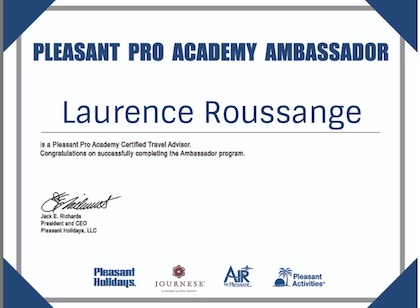
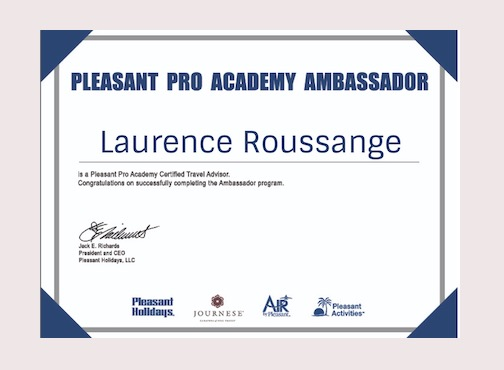
updating certificates

diff --git a/_site/about.html b/_site/about.html
@@ -217,7 +217,7 @@ src="https://www.facebook.com/tr?id=999318634367771&ev=PageView&noscript=1"
       <!-- Latest Projects-->
       <section class="section section-sm section-fluid bg-default">
         <div class="container">
-          <h3>Destinations</h3>
+          <h3>Certifications</h3>
         </div>
         <!-- Owl Carousel-->
         <div class="owl-carousel owl-classic owl-timeline" data-items="1" data-md-items="2" data-lg-items="3" data-xl-items="4" data-margin="30" data-autoplay="false" data-nav="true" data-dots="true">
@@ -226,11 +226,10 @@ src="https://www.facebook.com/tr?id=999318634367771&ev=PageView&noscript=1"
             <article class="thumbnail thumbnail-mary">
               <div class="thumbnail-mary-figure"><img src="images/gallery-image-11-420x308.jpg" alt="" width="420" height="308"/>
               </div>
-              <div class="thumbnail-mary-caption"><a class="icon fl-bigmug-line-zoom60" href="images/gallery-image-11-1200x800-original.jpg" data-lightgallery="item"><img src="images/gallery-image-11-420x308.jpg" alt="" width="420" height="308"/></a>
-              </div>
+              
             </article>
             <div class="thumbnail-mary-description">
-              <h5 class="thumbnail-mary-project"><a href="#">France</a></h5><span class="thumbnail-mary-decor"></span>
+              <h5 class="thumbnail-mary-project">Pleasant Pro</h5><span class="thumbnail-mary-decor"></span>
               <h5 class="thumbnail-mary-time">
               </h5>
             </div>
@@ -240,11 +239,10 @@ src="https://www.facebook.com/tr?id=999318634367771&ev=PageView&noscript=1"
             <article class="thumbnail thumbnail-mary">
               <div class="thumbnail-mary-figure"><img src="images/gallery-image-12-420x308.jpg" alt="" width="420" height="308"/>
               </div>
-              <div class="thumbnail-mary-caption"><a class="icon fl-bigmug-line-zoom60" href="images/gallery-image-12-1200x800-original.jpg" data-lightgallery="item"><img src="images/gallery-image-12-420x308.jpg" alt="" width="420" height="308"/></a>
-              </div>
+              
             </article>
             <div class="thumbnail-mary-description">
-              <h5 class="thumbnail-mary-project"><a href="#">Italy</a></h5><span class="thumbnail-mary-decor"></span>
+              <h5 class="thumbnail-mary-project">Islands of The Bahamas</h5><span class="thumbnail-mary-decor"></span>
               <h5 class="thumbnail-mary-time">
               </h5>
             </div>
@@ -254,11 +252,10 @@ src="https://www.facebook.com/tr?id=999318634367771&ev=PageView&noscript=1"
             <article class="thumbnail thumbnail-mary">
               <div class="thumbnail-mary-figure"><img src="images/gallery-image-13-420x308.jpg" alt="" width="420" height="308"/>
               </div>
-              <div class="thumbnail-mary-caption"><a class="icon fl-bigmug-line-zoom60" href="images/gallery-image-13-1200x800-original.jpg" data-lightgallery="item"><img src="images/gallery-image-13-420x308.jpg" alt="" width="420" height="308"/></a>
-              </div>
+              
             </article>
             <div class="thumbnail-mary-description">
-              <h5 class="thumbnail-mary-project"><a href="#">Egypt</a></h5><span class="thumbnail-mary-decor"></span>
+              <h5 class="thumbnail-mary-project">Celebrity Cruises</h5><span class="thumbnail-mary-decor"></span>
               <h5 class="thumbnail-mary-time">
               </h5>
             </div>
@@ -268,11 +265,10 @@ src="https://www.facebook.com/tr?id=999318634367771&ev=PageView&noscript=1"
             <article class="thumbnail thumbnail-mary">
               <div class="thumbnail-mary-figure"><img src="images/gallery-image-14-420x308.jpg" alt="" width="420" height="308"/>
               </div>
-              <div class="thumbnail-mary-caption"><a class="icon fl-bigmug-line-zoom60" href="images/gallery-image-14-1200x800-original.jpg" data-lightgallery="item"><img src="images/gallery-image-14-420x308.jpg" alt="" width="420" height="308"/></a>
-              </div>
+              
             </article>
             <div class="thumbnail-mary-description">
-              <h5 class="thumbnail-mary-project"><a href="#">Dubai</a></h5><span class="thumbnail-mary-decor"></span>
+              <h5 class="thumbnail-mary-project">Centrav Air</h5><span class="thumbnail-mary-decor"></span>
               <h5 class="thumbnail-mary-time">
               </h5>
             </div>
@@ -282,11 +278,10 @@ src="https://www.facebook.com/tr?id=999318634367771&ev=PageView&noscript=1"
             <article class="thumbnail thumbnail-mary">
               <div class="thumbnail-mary-figure"><img src="images/gallery-image-15-420x308.jpg" alt="" width="420" height="308"/>
               </div>
-              <div class="thumbnail-mary-caption"><a class="icon fl-bigmug-line-zoom60" href="images/gallery-image-15-1200x800-original.jpg" data-lightgallery="item"><img src="images/gallery-image-15-420x308.jpg" alt="" width="420" height="308"/></a>
-              </div>
+              
             </article>
             <div class="thumbnail-mary-description">
-              <h5 class="thumbnail-mary-project"><a href="#">Spain</a></h5><span class="thumbnail-mary-decor"></span>
+              <h5 class="thumbnail-mary-project">Club Med</h5><span class="thumbnail-mary-decor"></span>
               <h5 class="thumbnail-mary-time">
               </h5>
             </div>
@@ -294,13 +289,12 @@ src="https://www.facebook.com/tr?id=999318634367771&ev=PageView&noscript=1"
           <div class="owl-item">
           <!-- Thumbnail Classic-->
             <article class="thumbnail thumbnail-mary">
-              <div class="thumbnail-mary-figure"><img src="images/gallery-image-15-420x308.jpg" alt="" width="420" height="308"/>
+              <div class="thumbnail-mary-figure"><img src="images/gallery-image-17-420x308.jpg" alt="" width="420" height="308"/>
               </div>
-              <div class="thumbnail-mary-caption"><a class="icon fl-bigmug-line-zoom60" href="images/gallery-image-15-1200x800-original.jpg" data-lightgallery="item"><img src="images/gallery-image-15-420x308.jpg" alt="" width="420" height="308"/></a>
-              </div>
+              
             </article>
             <div class="thumbnail-mary-description">
-              <h5 class="thumbnail-mary-project"><a href="#">Spain</a></h5><span class="thumbnail-mary-decor"></span>
+              <h5 class="thumbnail-mary-project">Princess Cruises</h5><span class="thumbnail-mary-decor"></span>
               <h5 class="thumbnail-mary-time">
               </h5>
             </div>
@@ -308,13 +302,38 @@ src="https://www.facebook.com/tr?id=999318634367771&ev=PageView&noscript=1"
           <div class="owl-item">
           <!-- Thumbnail Classic-->
             <article class="thumbnail thumbnail-mary">
-              <div class="thumbnail-mary-figure"><img src="images/gallery-image-15-420x308.jpg" alt="" width="420" height="308"/>
+              <div class="thumbnail-mary-figure"><img src="images/gallery-image-18-420x308.jpg" alt="" width="420" height="308"/>
               </div>
-              <div class="thumbnail-mary-caption"><a class="icon fl-bigmug-line-zoom60" href="images/gallery-image-15-1200x800-original.jpg" data-lightgallery="item"><img src="images/gallery-image-15-420x308.jpg" alt="" width="420" height="308"/></a>
-              </div>
+              
             </article>
             <div class="thumbnail-mary-description">
-              <h5 class="thumbnail-mary-project"><a href="#">Spain</a></h5><span class="thumbnail-mary-decor"></span>
+              <h5 class="thumbnail-mary-project">Royal Caribbean Cruises</h5><span class="thumbnail-mary-decor"></span>
+              <h5 class="thumbnail-mary-time">
+              </h5>
+            </div>
+          </div>
+          <div class="owl-item">
+          <!-- Thumbnail Classic-->
+            <article class="thumbnail thumbnail-mary">
+              <div class="thumbnail-mary-figure"><img src="images/gallery-image-19-420x308.jpg" alt="" width="420" height="308"/>
+              </div>
+              
+            </article>
+            <div class="thumbnail-mary-description">
+              <h5 class="thumbnail-mary-project">Viking Cruises</h5><span class="thumbnail-mary-decor"></span>
+              <h5 class="thumbnail-mary-time">
+              </h5>
+            </div>
+          </div>
+          <div class="owl-item">
+          <!-- Thumbnail Classic-->
+            <article class="thumbnail thumbnail-mary">
+              <div class="thumbnail-mary-figure"><img src="images/gallery-image-20-420x308.jpg" alt="" width="420" height="308"/>
+              </div>
+              
+            </article>
+            <div class="thumbnail-mary-description">
+              <h5 class="thumbnail-mary-project">Windstar Cruises</h5><span class="thumbnail-mary-decor"></span>
               <h5 class="thumbnail-mary-time">
               </h5>
             </div>
@@ -324,11 +343,10 @@ src="https://www.facebook.com/tr?id=999318634367771&ev=PageView&noscript=1"
             <article class="thumbnail thumbnail-mary">
               <div class="thumbnail-mary-figure"><img src="images/gallery-image-16-420x308.jpg" alt="" width="420" height="308"/>
               </div>
-              <div class="thumbnail-mary-caption"><a class="icon fl-bigmug-line-zoom60" href="images/gallery-image-16-1200x800-original.jpg" data-lightgallery="item"><img src="images/gallery-image-16-420x308.jpg" alt="" width="420" height="308"/></a>
-              </div>
+              
             </article>
             <div class="thumbnail-mary-description">
-              <h5 class="thumbnail-mary-project"><a href="#">Africa</a></h5><span class="thumbnail-mary-decor"></span>
+              <h5 class="thumbnail-mary-project">Travel Academy</h5><span class="thumbnail-mary-decor"></span>
               <h5 class="thumbnail-mary-time">
               </h5>
             </div>

diff --git a/about.html b/about.html
@@ -217,7 +217,7 @@ src="https://www.facebook.com/tr?id=999318634367771&ev=PageView&noscript=1"
       <!-- Latest Projects-->
       <section class="section section-sm section-fluid bg-default">
         <div class="container">
-          <h3>Destinations</h3>
+          <h3>Certifications</h3>
         </div>
         <!-- Owl Carousel-->
         <div class="owl-carousel owl-classic owl-timeline" data-items="1" data-md-items="2" data-lg-items="3" data-xl-items="4" data-margin="30" data-autoplay="false" data-nav="true" data-dots="true">
@@ -226,11 +226,10 @@ src="https://www.facebook.com/tr?id=999318634367771&ev=PageView&noscript=1"
             <article class="thumbnail thumbnail-mary">
               <div class="thumbnail-mary-figure"><img src="images/gallery-image-11-420x308.jpg" alt="" width="420" height="308"/>
               </div>
-              <div class="thumbnail-mary-caption"><a class="icon fl-bigmug-line-zoom60" href="images/gallery-image-11-1200x800-original.jpg" data-lightgallery="item"><img src="images/gallery-image-11-420x308.jpg" alt="" width="420" height="308"/></a>
-              </div>
+              
             </article>
             <div class="thumbnail-mary-description">
-              <h5 class="thumbnail-mary-project"><a href="#">France</a></h5><span class="thumbnail-mary-decor"></span>
+              <h5 class="thumbnail-mary-project">Pleasant Pro</h5><span class="thumbnail-mary-decor"></span>
               <h5 class="thumbnail-mary-time">
               </h5>
             </div>
@@ -240,11 +239,10 @@ src="https://www.facebook.com/tr?id=999318634367771&ev=PageView&noscript=1"
             <article class="thumbnail thumbnail-mary">
               <div class="thumbnail-mary-figure"><img src="images/gallery-image-12-420x308.jpg" alt="" width="420" height="308"/>
               </div>
-              <div class="thumbnail-mary-caption"><a class="icon fl-bigmug-line-zoom60" href="images/gallery-image-12-1200x800-original.jpg" data-lightgallery="item"><img src="images/gallery-image-12-420x308.jpg" alt="" width="420" height="308"/></a>
-              </div>
+              
             </article>
             <div class="thumbnail-mary-description">
-              <h5 class="thumbnail-mary-project"><a href="#">Italy</a></h5><span class="thumbnail-mary-decor"></span>
+              <h5 class="thumbnail-mary-project">Islands of The Bahamas</h5><span class="thumbnail-mary-decor"></span>
               <h5 class="thumbnail-mary-time">
               </h5>
             </div>
@@ -254,11 +252,10 @@ src="https://www.facebook.com/tr?id=999318634367771&ev=PageView&noscript=1"
             <article class="thumbnail thumbnail-mary">
               <div class="thumbnail-mary-figure"><img src="images/gallery-image-13-420x308.jpg" alt="" width="420" height="308"/>
               </div>
-              <div class="thumbnail-mary-caption"><a class="icon fl-bigmug-line-zoom60" href="images/gallery-image-13-1200x800-original.jpg" data-lightgallery="item"><img src="images/gallery-image-13-420x308.jpg" alt="" width="420" height="308"/></a>
-              </div>
+              
             </article>
             <div class="thumbnail-mary-description">
-              <h5 class="thumbnail-mary-project"><a href="#">Egypt</a></h5><span class="thumbnail-mary-decor"></span>
+              <h5 class="thumbnail-mary-project">Celebrity Cruises</h5><span class="thumbnail-mary-decor"></span>
               <h5 class="thumbnail-mary-time">
               </h5>
             </div>
@@ -268,11 +265,10 @@ src="https://www.facebook.com/tr?id=999318634367771&ev=PageView&noscript=1"
             <article class="thumbnail thumbnail-mary">
               <div class="thumbnail-mary-figure"><img src="images/gallery-image-14-420x308.jpg" alt="" width="420" height="308"/>
               </div>
-              <div class="thumbnail-mary-caption"><a class="icon fl-bigmug-line-zoom60" href="images/gallery-image-14-1200x800-original.jpg" data-lightgallery="item"><img src="images/gallery-image-14-420x308.jpg" alt="" width="420" height="308"/></a>
-              </div>
+              
             </article>
             <div class="thumbnail-mary-description">
-              <h5 class="thumbnail-mary-project"><a href="#">Dubai</a></h5><span class="thumbnail-mary-decor"></span>
+              <h5 class="thumbnail-mary-project">Centrav Air</h5><span class="thumbnail-mary-decor"></span>
               <h5 class="thumbnail-mary-time">
               </h5>
             </div>
@@ -282,11 +278,10 @@ src="https://www.facebook.com/tr?id=999318634367771&ev=PageView&noscript=1"
             <article class="thumbnail thumbnail-mary">
               <div class="thumbnail-mary-figure"><img src="images/gallery-image-15-420x308.jpg" alt="" width="420" height="308"/>
               </div>
-              <div class="thumbnail-mary-caption"><a class="icon fl-bigmug-line-zoom60" href="images/gallery-image-15-1200x800-original.jpg" data-lightgallery="item"><img src="images/gallery-image-15-420x308.jpg" alt="" width="420" height="308"/></a>
-              </div>
+              
             </article>
             <div class="thumbnail-mary-description">
-              <h5 class="thumbnail-mary-project"><a href="#">Spain</a></h5><span class="thumbnail-mary-decor"></span>
+              <h5 class="thumbnail-mary-project">Club Med</h5><span class="thumbnail-mary-decor"></span>
               <h5 class="thumbnail-mary-time">
               </h5>
             </div>
@@ -294,13 +289,12 @@ src="https://www.facebook.com/tr?id=999318634367771&ev=PageView&noscript=1"
           <div class="owl-item">
           <!-- Thumbnail Classic-->
             <article class="thumbnail thumbnail-mary">
-              <div class="thumbnail-mary-figure"><img src="images/gallery-image-15-420x308.jpg" alt="" width="420" height="308"/>
+              <div class="thumbnail-mary-figure"><img src="images/gallery-image-17-420x308.jpg" alt="" width="420" height="308"/>
               </div>
-              <div class="thumbnail-mary-caption"><a class="icon fl-bigmug-line-zoom60" href="images/gallery-image-15-1200x800-original.jpg" data-lightgallery="item"><img src="images/gallery-image-15-420x308.jpg" alt="" width="420" height="308"/></a>
-              </div>
+              
             </article>
             <div class="thumbnail-mary-description">
-              <h5 class="thumbnail-mary-project"><a href="#">Spain</a></h5><span class="thumbnail-mary-decor"></span>
+              <h5 class="thumbnail-mary-project">Princess Cruises</h5><span class="thumbnail-mary-decor"></span>
               <h5 class="thumbnail-mary-time">
               </h5>
             </div>
@@ -308,13 +302,38 @@ src="https://www.facebook.com/tr?id=999318634367771&ev=PageView&noscript=1"
           <div class="owl-item">
           <!-- Thumbnail Classic-->
             <article class="thumbnail thumbnail-mary">
-              <div class="thumbnail-mary-figure"><img src="images/gallery-image-15-420x308.jpg" alt="" width="420" height="308"/>
+              <div class="thumbnail-mary-figure"><img src="images/gallery-image-18-420x308.jpg" alt="" width="420" height="308"/>
               </div>
-              <div class="thumbnail-mary-caption"><a class="icon fl-bigmug-line-zoom60" href="images/gallery-image-15-1200x800-original.jpg" data-lightgallery="item"><img src="images/gallery-image-15-420x308.jpg" alt="" width="420" height="308"/></a>
-              </div>
+              
             </article>
             <div class="thumbnail-mary-description">
-              <h5 class="thumbnail-mary-project"><a href="#">Spain</a></h5><span class="thumbnail-mary-decor"></span>
+              <h5 class="thumbnail-mary-project">Royal Caribbean Cruises</h5><span class="thumbnail-mary-decor"></span>
+              <h5 class="thumbnail-mary-time">
+              </h5>
+            </div>
+          </div>
+          <div class="owl-item">
+          <!-- Thumbnail Classic-->
+            <article class="thumbnail thumbnail-mary">
+              <div class="thumbnail-mary-figure"><img src="images/gallery-image-19-420x308.jpg" alt="" width="420" height="308"/>
+              </div>
+              
+            </article>
+            <div class="thumbnail-mary-description">
+              <h5 class="thumbnail-mary-project">Viking Cruises</h5><span class="thumbnail-mary-decor"></span>
+              <h5 class="thumbnail-mary-time">
+              </h5>
+            </div>
+          </div>
+          <div class="owl-item">
+          <!-- Thumbnail Classic-->
+            <article class="thumbnail thumbnail-mary">
+              <div class="thumbnail-mary-figure"><img src="images/gallery-image-20-420x308.jpg" alt="" width="420" height="308"/>
+              </div>
+              
+            </article>
+            <div class="thumbnail-mary-description">
+              <h5 class="thumbnail-mary-project">Windstar Cruises</h5><span class="thumbnail-mary-decor"></span>
               <h5 class="thumbnail-mary-time">
               </h5>
             </div>
@@ -324,11 +343,10 @@ src="https://www.facebook.com/tr?id=999318634367771&ev=PageView&noscript=1"
             <article class="thumbnail thumbnail-mary">
               <div class="thumbnail-mary-figure"><img src="images/gallery-image-16-420x308.jpg" alt="" width="420" height="308"/>
               </div>
-              <div class="thumbnail-mary-caption"><a class="icon fl-bigmug-line-zoom60" href="images/gallery-image-16-1200x800-original.jpg" data-lightgallery="item"><img src="images/gallery-image-16-420x308.jpg" alt="" width="420" height="308"/></a>
-              </div>
+              
             </article>
             <div class="thumbnail-mary-description">
-              <h5 class="thumbnail-mary-project"><a href="#">Africa</a></h5><span class="thumbnail-mary-decor"></span>
+              <h5 class="thumbnail-mary-project">Travel Academy</h5><span class="thumbnail-mary-decor"></span>
               <h5 class="thumbnail-mary-time">
               </h5>
             </div>
